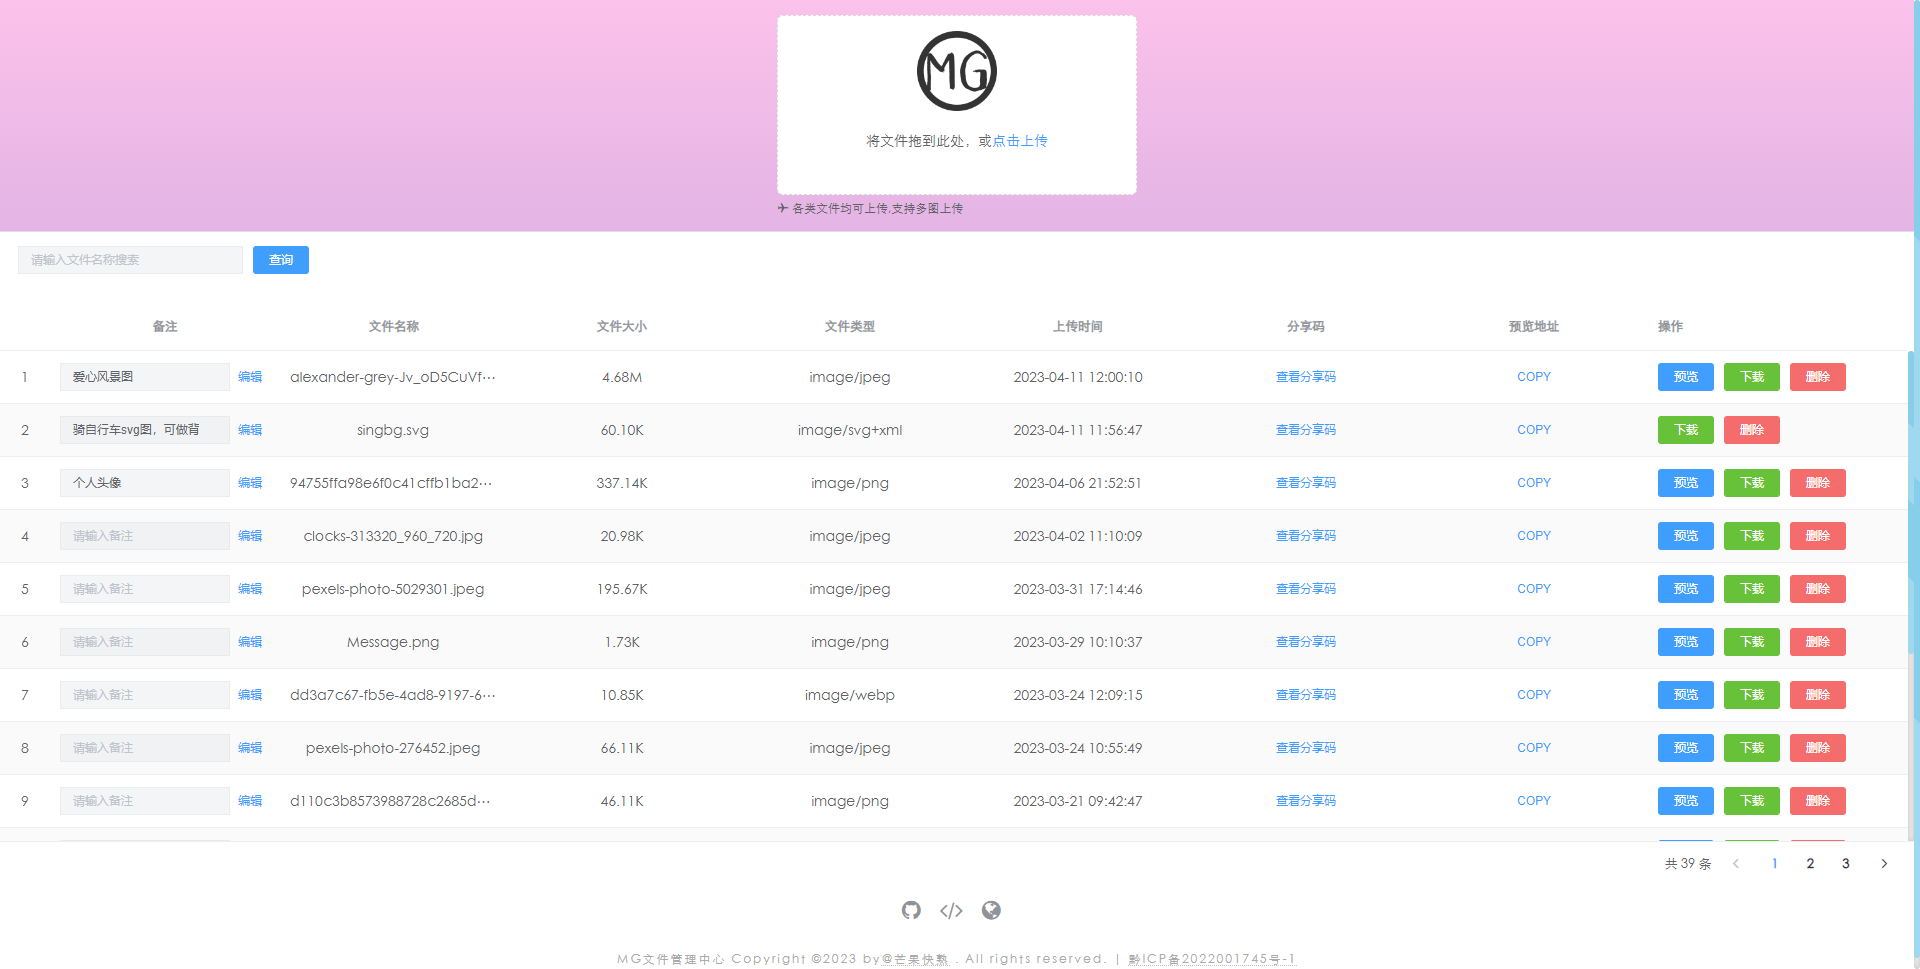
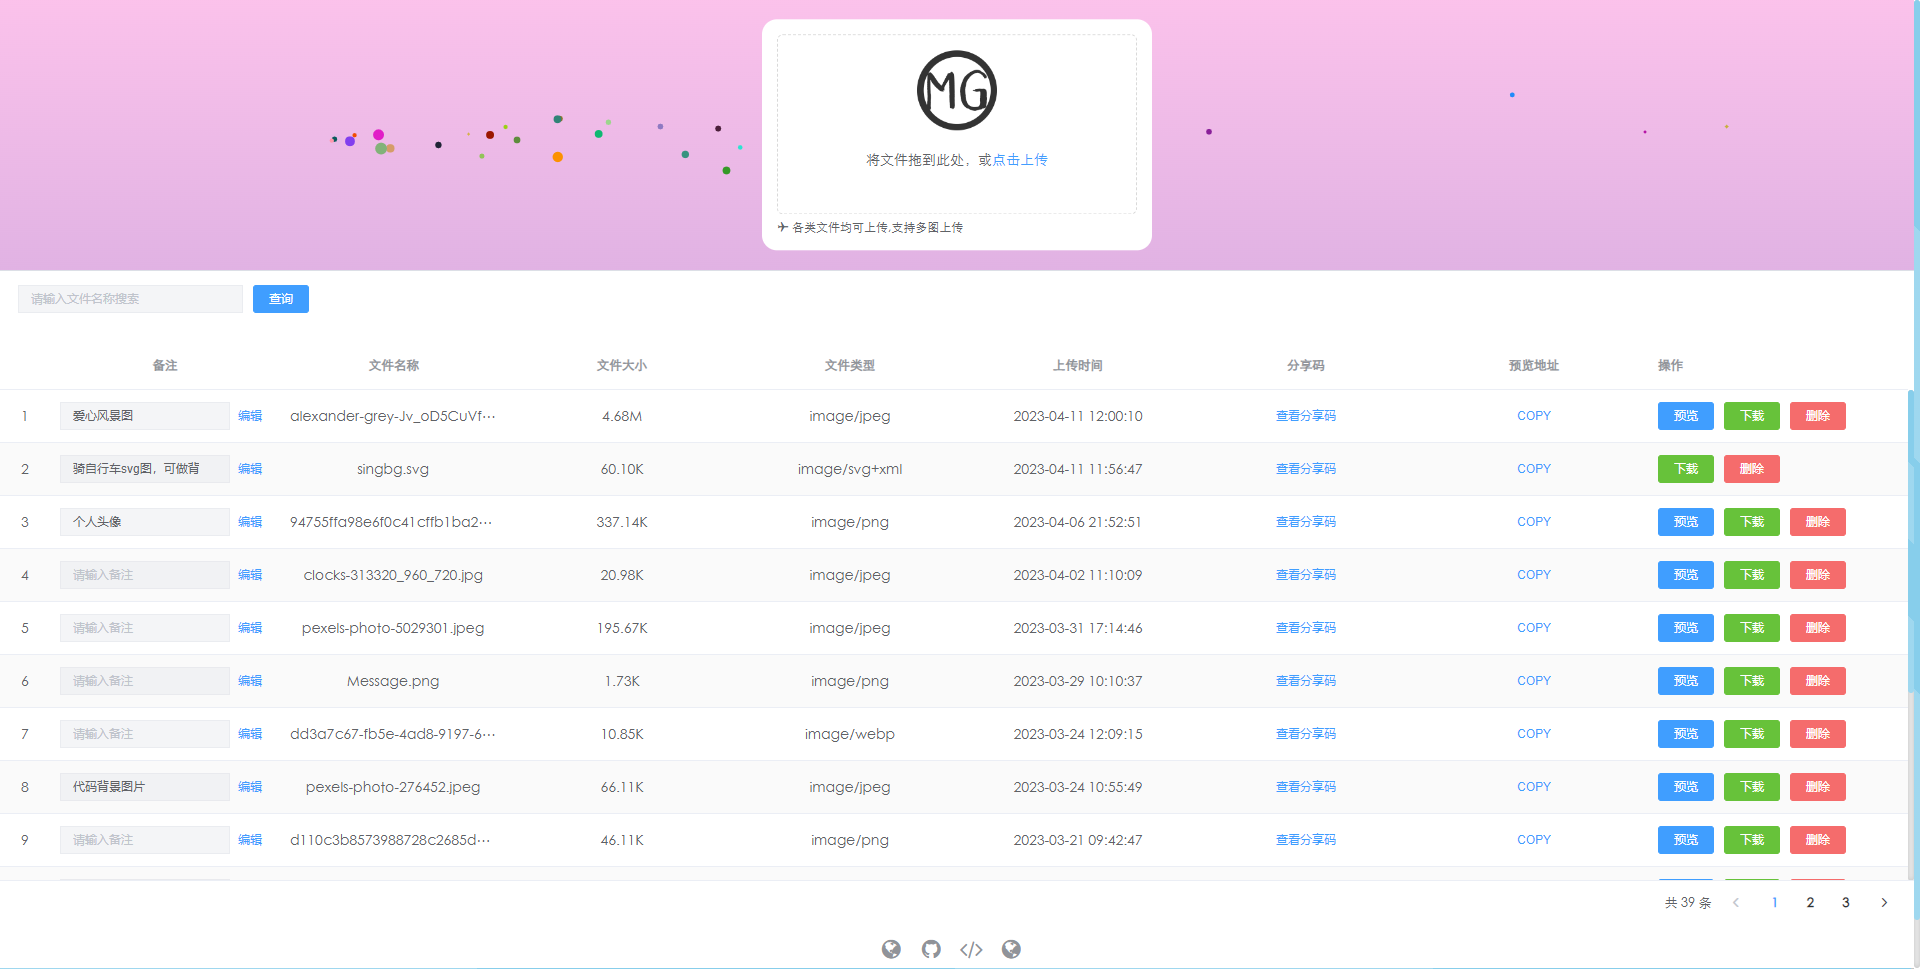
🎉

diff --git a/client/src/views/Home.vue b/client/src/views/Home.vue
@@ -1,13 +1,14 @@
 <template>
   <div class="home">
     <el-row>
-      <div class="up-box">
-        <MkUploadFile @handleSuccess="goPage(1)"/>
+      <div class="up-box" ref="up-box">
+        <canvas id="particleCanvas"></canvas>
+        <MkUploadFile class="up-at" v-if="showUploadBox" @handleSuccess="goPage(1)"/>
+        <el-button class="up-none" v-if="!showUploadBox" @click="goU">上传文件</el-button>
       </div>
     </el-row>
     <el-divider></el-divider>
     <section class="tb-pan">
-
       <el-row style="padding-bottom: 15px">
         <el-form :model="query" ref="ruleForm" label-width="10px" class="demo-ruleForm">
           <el-row style="display: flex">
@@ -116,7 +117,6 @@
         :total="temp.dataSize">
       </el-pagination>
     </section>
-
     <el-dialog width="320px" title="文件下载地址分享码" :visible.sync="dialogTableVisible"
                @close="()=>{this.dialogTableVisible=false}">
       <div style="display: flex;justify-content: center">
@@ -142,6 +142,7 @@ export default {
     return {
       tableData: [],
       loading: false,
+      showUploadBox: false,
       dialogTableVisible: false,
       codeUrl: '',
       //查询条件
@@ -162,6 +163,7 @@ export default {
       updataKey: 0,
       heightL: 580,
       tableHeight: 580,
+
     }
   },
   watch: {
@@ -169,11 +171,14 @@ export default {
       this.updataKey += 1
       this.tableHeight = val
     },
+
   },
   created() {
     this.getDataList()
+    this.showUploadBox = localStorage.getItem('zy_files_key')
   },
   mounted() {
+    this.init()
     this.getWinHeight()
   },
   methods: {
@@ -186,24 +191,110 @@ export default {
         that.heightL = window.innerHeight - 430
       })
     },
-    goUpdate(data) {
+    //初始化cavans粒子
+    init() {
+      const canvas = document.getElementById("particleCanvas");
+      const ctx = canvas.getContext("2d");
+      canvas.width = this.$refs["up-box"].clientWidth
+      canvas.height = this.$refs["up-box"].clientHeight;
+
+      class Particle {
+        constructor(x, y, size, color, speedX, speedY) {
+          this.x = x;
+          this.y = y;
+          this.size = size;
+          this.color = color;
+          this.speedX = speedX;
+          this.speedY = speedY;
+        }
+
+        update() {
+          this.x += this.speedX;
+          this.y += this.speedY;
+
+          if (this.size > 0.2) this.size -= 0.1;
+        }
+
+        draw() {
+          ctx.fillStyle = this.color;
+          ctx.strokeStyle = this.color;
+          ctx.lineWidth = 2;
+          ctx.beginPath();
+          ctx.arc(this.x, this.y, this.size, 0, Math.PI * 2);
+          ctx.closePath();
+          ctx.fill();
+          ctx.stroke();
+        }
+      }
+
+      let particles = [];
+
+      function createParticle(e) {
+        const xPos = e.x;
+        const yPos = e.y;
+        const size = Math.random() * 5 + 1;
+        const color = '#' + ('00000' + (Math.random() * 0x1000000 << 0).toString(16)).substr(-6);
+        const speedX = Math.random() * 3 - 1.5;
+        const speedY = Math.random() * 3 - 1.5;
+
+        const particle = new Particle(xPos, yPos, size, color, speedX, speedY);
+        particles.push(particle);
+      }
+
+      function animateParticles() {
+        ctx.clearRect(0, 0, canvas.width, canvas.height);
+
+        for (let i = 0; i < particles.length; i++) {
+          particles[i].update();
+          particles[i].draw();
+
+          if (particles[i].size <= 0.2) {
+            particles.splice(i, 1);
+            i--;
+          }
+        }
+        requestAnimationFrame(animateParticles);
+      }
+
+      canvas.addEventListener("mousemove", createParticle);
+      animateParticles();
+    },
+
+    checkOrder() {
       let that = this
-      this.$prompt('请输入口令', '提示', {
+      return this.$prompt('请输入口令', '提示', {
         confirmButtonText: '确定',
         cancelButtonText: '取消',
         inputValidator: that.verKL,
         inputErrorMessage: '口令不正确'
       }).then(({value}) => {
-        dirFilesUpdate(data).then(res => {
-          that.$message({
-            type: 'success',
-            message: '编辑成功!'
-          });
-          that.getDataList()
-        })
+        localStorage.setItem('zy_files_key', 'ok')
+        that.showUploadBox = true
+        return true
       }).catch(() => {
-
+        return false
       });
+    },
+
+    goU: async function () {
+      this.showUploadBox = await this.checkOrder()
+    },
+
+    goUpdate: async function (data) {
+      let that = this
+      let isPass = false
+      if (this.showUploadBox) {
+        isPass = true
+      } else {
+        isPass = await this.checkOrder()
+      }
+      isPass && dirFilesUpdate(data).then(res => {
+        that.$message({
+          type: 'success',
+          message: '编辑成功!'
+        });
+        that.getDataList()
+      })
 
 
     },
@@ -295,28 +386,23 @@ export default {
     verKL(val) {
       return val === 'admin'
     },
-    goDelete(data) {
+    goDelete: async function (data) {
       let that = this
-      this.$prompt('请输入口令', '提示', {
-        confirmButtonText: '确定',
-        cancelButtonText: '取消',
-        inputValidator: that.verKL,
-        inputErrorMessage: '口令不正确'
-      }).then(({value}) => {
-        dirFilesDelete({id: data.id, name: data.name}).then(res => {
-          that.$message({
-            type: 'success',
-            message: '删除成功!'
-          });
-          that.getDataList()
-        }).catch(err => {
-          console.log(err)
-        })
-      }).catch(() => {
-
-      });
-
-
+      let isPass = false
+      if (this.showUploadBox) {
+        isPass = true
+      } else {
+        isPass = await this.checkOrder()
+      }
+      isPass && dirFilesDelete({id: data.id, name: data.name}).then(res => {
+        that.$message({
+          type: 'success',
+          message: '删除成功!'
+        });
+        that.getDataList()
+      }).catch(err => {
+        console.log(err)
+      })
     },
   }
 }
@@ -333,7 +419,23 @@ export default {
 .up-box {
   display: flex;
   justify-content: center;
-  padding: 15px 0;
+  position: relative;
+  height: 270px;
+
+  .up-at {
+    position: absolute;
+    top: 50%;
+    transform: translateY(-50%);
+    padding: 15px;
+    background-color: #fff;
+    border-radius: 15px;
+  }
+
+  .up-none {
+    position: absolute;
+    top: 50%;
+    transform: translateY(-50%);
+  }
 }
 
 .pag {

diff --git a/client/src/components/common/MgUploadFile.vue b/client/src/components/common/MgUploadFile.vue
@@ -5,27 +5,16 @@
       drag
       :action="action"
       :show-file-list="false"
-      :on-preview="handlePreview"
-      :on-remove="handleRemove"
       :on-success="handleSuccess"
       :before-upload="beforeUpload"
-      :before-remove="beforeRemove"
       :headers=headers
       v-loading="loading"
       multiple
-      :on-exceed="handleExceed"
-      :file-list="fileList">
-      <!--      <i class="el-icon-upload"></i>-->
+    >
       <img class="upload-logo" src="../../assets/logo.png"/>
       <div class="el-upload__text">将文件拖到此处，或<em>点击上传</em></div>
       <div class="el-upload__tip" slot="tip">✈ 各类文件均可上传,支持多图上传</div>
     </el-upload>
-    <!--    <el-image-->
-    <!--      v-if="tempImg"-->
-    <!--      style="width: 100px; height: 100px;border-radius: 5px"-->
-    <!--      :src="tempImg"-->
-    <!--      :preview-src-list="[tempImg]"-->
-    <!--      fit="fit"></el-image>-->
   </section>
 </template>
 
@@ -84,34 +73,18 @@ export default {
     },
     handleSuccess(res, file) {
       this.loading = false
-      // this.tempImg = res.data.url
       this.$emit('handleSuccess', true)
-      // this.$toast.success(res.meta.msg)
-
       this.$notify({
         title: res.data.errFiles.length ? '失败' : '成功',
         message: res.meta.msg,
         type: res.data.errFiles.length ? 'error' : 'success'
       });
     },
-    handleRemove(file, fileList) {
-      console.log(file, fileList);
-    },
-    handlePreview(file) {
-      console.log(file);
-    },
-    handleExceed(files, fileList) {
-      this.$message.warning(`当前限制选择 3 个文件，本次选择了 ${files.length} 个文件，共选择了 ${files.length + fileList.length} 个文件`);
-    },
-    beforeRemove(file, fileList) {
-      return this.$confirm(`确定移除 ${file.name}？`);
-    }
   }
 }
 </script>
 
 <style lang="scss" scoped>
-
 .upload-logo {
   display: inline-block;
   width: 80px;

diff --git a/client/src/components/layout/MgFooter.vue b/client/src/components/layout/MgFooter.vue
@@ -1,8 +1,8 @@
 <template>
   <section id="mg-footer">
     <ul class="icons">
-      <li title="Github">
-        <span style="font-size: 15px"  @click="handleLink('https://gitee.com/Z568_568/zy.files.sys.git')">源码</span>
+      <li   title="源码">
+        <MgIcon name="fa-globe"  @click="handleLink('https://gitee.com/Z568_568/zy.files.sys.git')"/>
       </li>
       <li title="Github">
         <MgIcon name="fa-brands fa-github" @click="handleLink('https://github.com/ZHYI-source')"/>
